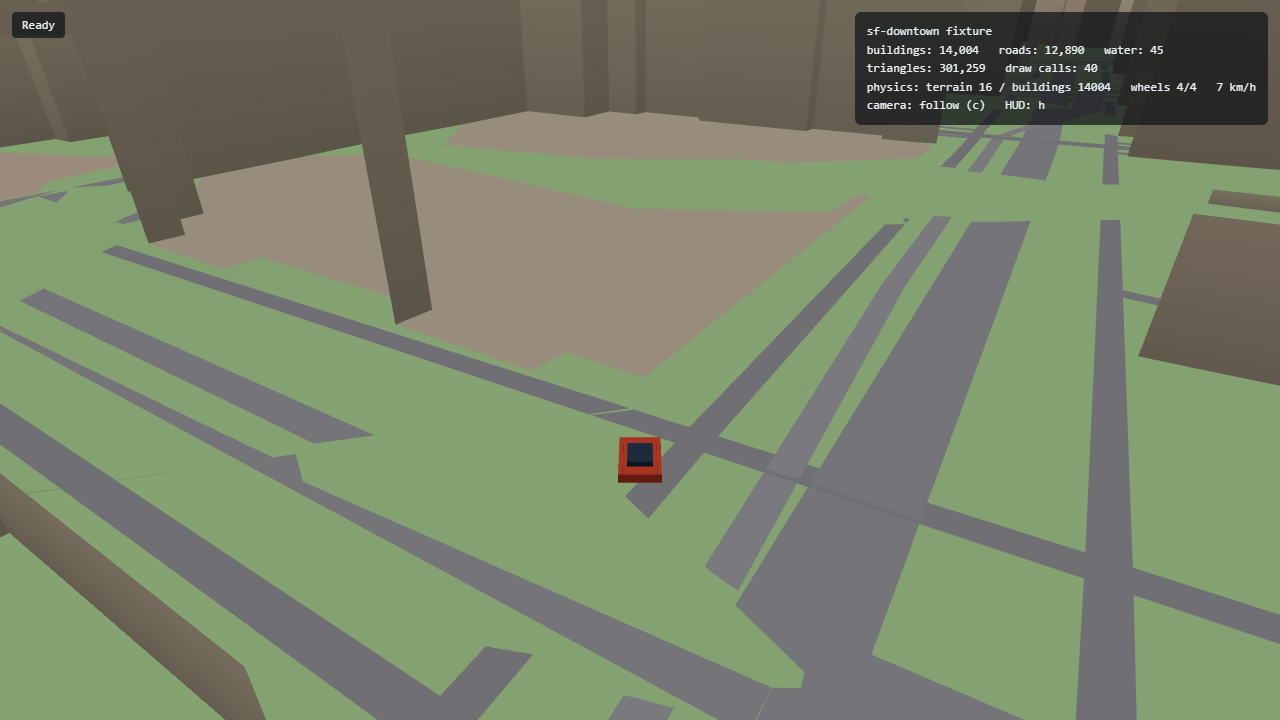
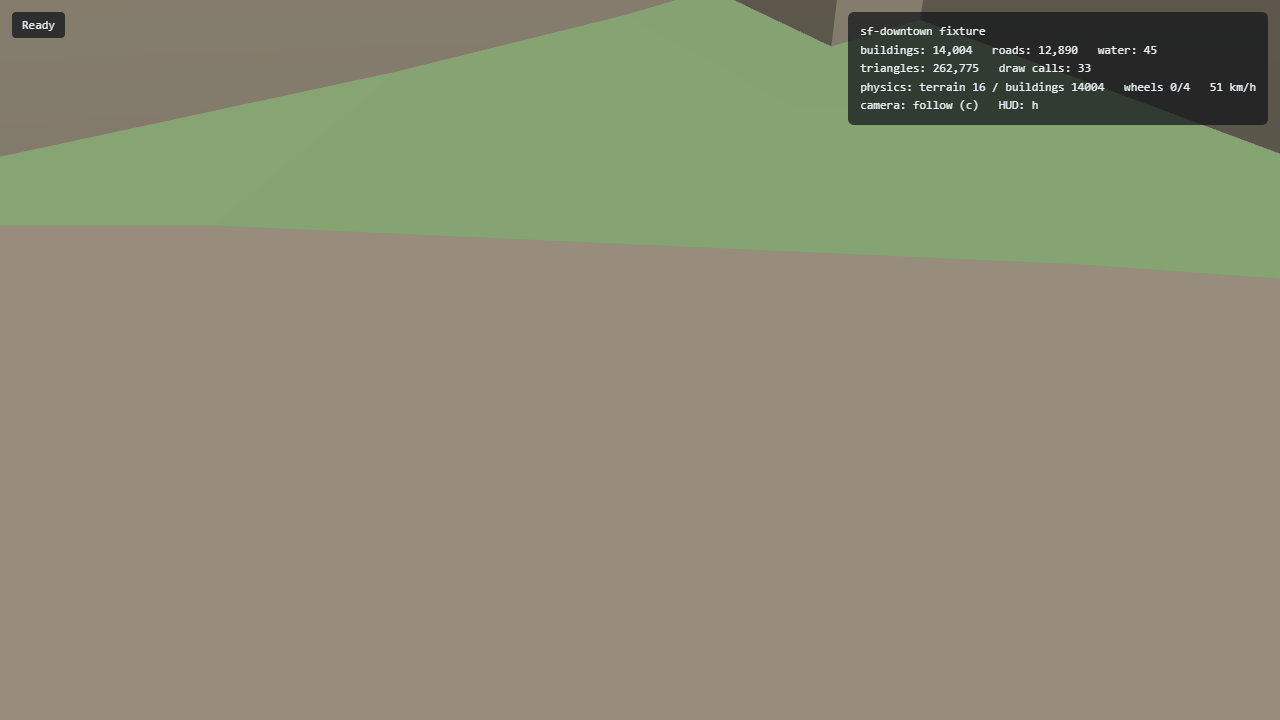
wp04: geo fusion pipeline - geo/local roundtrip, unified elevation policy, deterministic terrain seam stitching (1.64m->0), floating-origin rebase groundwork; wired into render+physics

diff --git a/src/geo/fusion.ts b/src/geo/fusion.ts
@@ -1,0 +1,161 @@
+import type { ChunkTerrain, WorldFixture } from "../world/generator";
+import { sampleTerrain } from "../world/generator";
+import { webMercatorX, webMercatorY } from "./projection";
+
+export { sampleTerrain };
+
+export interface GeoPoint {
+  lon: number;
+  lat: number;
+}
+
+export interface LocalPoint {
+  x: number;
+  z: number;
+}
+
+export interface WorldOrigin {
+  /** Fixture origin in EPSG:3857 meters (the manifest.origin). */
+  x: number;
+  y: number;
+}
+
+/** Fixture-local (x, z) → geographic lon/lat via the fixture's mercator origin. */
+export function localToGeo(origin: WorldOrigin, x: number, z: number): GeoPoint {
+  return {
+    lon: (origin.x + x) / 20037508.342789244 * 180,
+    lat: (2 * Math.atan(Math.exp((origin.y + z) / 6378137)) - Math.PI / 2) * 180 / Math.PI,
+  };
+}
+
+/** Geographic lon/lat → fixture-local (x, z). */
+export function geoToLocal(origin: WorldOrigin, lon: number, lat: number): LocalPoint {
+  return {
+    x: webMercatorX(lon) - origin.x,
+    z: webMercatorY(lat) - origin.y,
+  };
+}
+
+/**
+ * Stitch terrain seams between adjacent chunks so shared edges agree.
+ * For each chunk pair, the shared edge values are replaced by their average;
+ * the two outermost rows/columns are then blended toward the neighbor's edge
+ * with a linear falloff so the transition is smooth. Deterministic and
+ * idempotent (once edges agree, averaging changes nothing).
+ */
+export function stitchTerrainEdges(terrain: ChunkTerrain[]): ChunkTerrain[] {
+  const out = terrain.map((c) => ({
+    ...c,
+    heights: c.heights.map((row) => row.slice()),
+  }));
+  const byKey = new Map(out.map((c) => [chunkKey(c.z, c.x, c.y), c]));
+  const n = out[0]?.size ?? 0;
+  if (n === 0) return out;
+  const last = n - 1;
+
+  const blendRow = (c: ChunkTerrain, row: number, colA: number, colB: number, w: number, v: number): void => {
+    c.heights[row]![colA] = v;
+    c.heights[row]![colB] = c.heights[row]![colB] * (1 - w) + v * w;
+  };
+  const blendCol = (c: ChunkTerrain, col: number, rowA: number, rowB: number, w: number, v: number): void => {
+    c.heights[rowA]![col] = v;
+    c.heights[rowB]![col] = c.heights[rowB]![col] * (1 - w) + v * w;
+  };
+
+  // North-south pairs: c is the north chunk (y), s = c's south neighbor (y-1).
+  for (const c of out) {
+    const s = byKey.get(chunkKey(c.z, c.x, c.y - 1));
+    if (!s) continue;
+    for (let i = 0; i < n; i++) {
+      const a = c.heights[last]![i]!;
+      const b = s.heights[0]![i]!;
+      if (Math.abs(a - b) < 1e-6) continue;
+      const v = (a + b) / 2;
+      blendRow(c, last, i, i === 0 ? 0 : i, 1, v);
+      blendRow(s, 0, i, i === 0 ? 0 : i, 1, v);
+      const w1 = 0.33;
+      const w2 = 0.67;
+      if (last - 1 >= 0) c.heights[last - 1]![i] = c.heights[last - 1]![i]! * (1 - w1) + v * w1;
+      if (1 < n) s.heights[1]![i] = s.heights[1]![i]! * (1 - w1) + v * w1;
+      if (last - 2 >= 0) c.heights[last - 2]![i] = c.heights[last - 2]![i]! * (1 - w2) + v * w2;
+      if (2 < n) s.heights[2]![i] = s.heights[2]![i]! * (1 - w2) + v * w2;
+    }
+  }
+  // East-west pairs: e = c's east neighbor (x+1).
+  for (const c of out) {
+    const e = byKey.get(chunkKey(c.z, c.x + 1, c.y));
+    if (!e) continue;
+    for (let j = 0; j < n; j++) {
+      const a = c.heights[j]![last]!;
+      const b = e.heights[j]![0]!;
+      if (Math.abs(a - b) < 1e-6) continue;
+      const v = (a + b) / 2;
+      blendCol(c, last, j, j === 0 ? 0 : j, 1, v);
+      blendCol(e, 0, j, j === 0 ? 0 : j, 1, v);
+      const w1 = 0.33;
+      const w2 = 0.67;
+      if (last - 1 >= 0) c.heights[j]![last - 1] = c.heights[j]![last - 1]! * (1 - w1) + v * w1;
+      if (1 < n) e.heights[j]![1] = e.heights[j]![1]! * (1 - w1) + v * w1;
+      if (last - 2 >= 0) c.heights[j]![last - 2] = c.heights[j]![last - 2]! * (1 - w2) + v * w2;
+      if (2 < n) e.heights[j]![2] = e.heights[j]![2]! * (1 - w2) + v * w2;
+    }
+  }
+  return out;
+}
+
+/**
+ * Prepare a fixture for world building: terrain seams stitched so render and
+ * physics use identical, seam-free heights. Deterministic.
+ */
+export function prepareFixture(fixture: WorldFixture): WorldFixture {
+  return { ...fixture, terrain: stitchTerrainEdges(fixture.terrain) };
+}
+
+/**
+ * One elevation policy for the whole world: sample a terrain set at
+ * fixture-local (x, z). Render, physics, spawn and fusion all use this.
+ */
+export const elevationPolicy = {
+  sample: sampleTerrain,
+};
+
+/**
+ * Floating-origin groundwork: translate geometry between two world origins.
+ * newLocal = oldLocal + (oldOrigin - newOrigin). Geographic coordinates are
+ * the stable identity; local coordinates are origin-relative.
+ */
+export function rebasePoint(
+  oldOrigin: WorldOrigin,
+  newOrigin: WorldOrigin,
+  x: number,
+  z: number,
+): LocalPoint {
+  return { x: x + (oldOrigin.x - newOrigin.x), z: z + (oldOrigin.y - newOrigin.y) };
+}
+
+function chunkKey(z: number, x: number, y: number): string {
+  return `${z}-${x}-${y}`;
+}
+
+export interface FusionPipeline {
+  origin: WorldOrigin;
+  terrain: ChunkTerrain[];
+  toLocal(lon: number, lat: number): LocalPoint;
+  toGeo(x: number, z: number): GeoPoint;
+  elevation(x: number, z: number): number;
+  rebase(newOrigin: WorldOrigin, x: number, z: number): LocalPoint;
+}
+
+/** Full pipeline bound to a prepared fixture. */
+export function createFusion(fixture: WorldFixture): FusionPipeline {
+  const terrain = stitchTerrainEdges(fixture.terrain);
+  const origin: WorldOrigin = { x: fixture.manifest.origin.x, y: fixture.manifest.origin.y };
+  return {
+    origin,
+    terrain,
+    toLocal: (lon, lat) => geoToLocal(origin, lon, lat),
+    toGeo: (x, z) => localToGeo(origin, x, z),
+    elevation: (x, z) => sampleTerrain(terrain, x, z),
+    rebase: (newOrigin, x, z) => rebasePoint(origin, newOrigin, x, z),
+  };
+}

diff --git a/tests/unit/fusion.test.ts b/tests/unit/fusion.test.ts
@@ -1,0 +1,100 @@
+import { readFileSync } from "node:fs";
+import { fileURLToPath } from "node:url";
+import { describe, expect, it, beforeAll } from "vitest";
+import type { ChunkTerrain, WorldFixture } from "../../src/world/generator";
+import { createFusion, geoToLocal, localToGeo, rebasePoint, stitchTerrainEdges } from "../../src/geo/fusion";
+import { readFixture } from "./fixture-helper";
+
+let fixture: WorldFixture;
+let rawTerrain: ChunkTerrain[];
+
+beforeAll(() => {
+  fixture = readFixture("sf-downtown");
+  const dir = fileURLToPath(new URL("../../fixtures/sf-downtown", import.meta.url));
+  rawTerrain = (JSON.parse(readFileSync(`${dir}/terrain.json`, "utf8")) as { chunks: ChunkTerrain[] }).chunks;
+});
+
+function maxEdgeDelta(terrain: ChunkTerrain[]): { ns: number; ew: number } {
+  const byKey = new Map(terrain.map((c) => [`${c.z}-${c.x}-${c.y}`, c]));
+  let ns = 0;
+  let ew = 0;
+  for (const c of terrain) {
+    const south = byKey.get(`${c.z}-${c.x}-${c.y - 1}`);
+    if (south) {
+      for (let i = 0; i < c.size; i++) {
+        ns = Math.max(ns, Math.abs(c.heights[c.size - 1]![i]! - south.heights[0]![i]!));
+      }
+    }
+    const east = byKey.get(`${c.z}-${c.x + 1}-${c.y}`);
+    if (east) {
+      for (let j = 0; j < c.size; j++) {
+        ew = Math.max(ew, Math.abs(c.heights[j]![c.size - 1]! - east.heights[j]![0]!));
+      }
+    }
+  }
+  return { ns, ew };
+}
+
+describe("geo fusion pipeline", () => {
+  it("localToGeo / geoToLocal roundtrip via the fixture origin", () => {
+    const origin = fixture.manifest.origin;
+    const lon = -122.4053;
+    const lat = 37.7909;
+    const p = geoToLocal(origin, lon, lat);
+    const g = localToGeo(origin, p.x, p.z);
+    expect(g.lon).toBeCloseTo(lon, 6);
+    expect(g.lat).toBeCloseTo(lat, 6);
+  });
+
+  it("stitching: shared chunk edges agree after stitchTerrainEdges", () => {
+    const raw = maxEdgeDelta(rawTerrain);
+    expect(raw.ns).toBeGreaterThan(0);
+    expect(raw.ew).toBeGreaterThan(0);
+    const stitched = stitchTerrainEdges(rawTerrain);
+    const { ns, ew } = maxEdgeDelta(stitched);
+    expect(ns).toBeLessThan(0.01);
+    expect(ew).toBeLessThan(0.01);
+  });
+
+  it("stitching is idempotent", () => {
+    const once = stitchTerrainEdges(rawTerrain);
+    const twice = stitchTerrainEdges(once);
+    for (let k = 0; k < once.length; k++) {
+      expect(twice[k]!.heights).toEqual(once[k]!.heights);
+    }
+  });
+
+  it("stitching preserves interior values away from the seams", () => {
+    const stitched = stitchTerrainEdges(rawTerrain);
+    for (const c of stitched) {
+      for (let j = 3; j <= c.size - 4; j++) {
+        for (let i = 3; i <= c.size - 4; i++) {
+          const orig = rawTerrain.find((o) => o.x === c.x && o.y === c.y)!;
+          expect(c.heights[j]![i]!).toBe(orig.heights[j]![i]!);
+        }
+      }
+    }
+  });
+
+  it("createFusion exposes a coherent pipeline with elevation policy", () => {
+    const fusion = createFusion(fixture);
+    const p = fusion.toLocal(-122.4053, 37.7909);
+    expect(Number.isFinite(fusion.elevation(p.x, p.z))).toBe(true);
+    const g = fusion.toGeo(p.x, p.z);
+    expect(g.lon).toBeCloseTo(-122.4053, 6);
+  });
+
+  it("rebase: relative geometry is preserved under origin changes", () => {
+    const origin = fixture.manifest.origin;
+    const newOrigin = { x: origin.x + 5000, y: origin.y - 5000 };
+    const a = { x: 123.4, z: -567.8 };
+    const b = { x: 999.1, z: 12.3 };
+    const ra = rebasePoint(origin, newOrigin, a.x, a.z);
+    const rb = rebasePoint(origin, newOrigin, b.x, b.z);
+    expect(Math.hypot(ra.x - rb.x, ra.z - rb.z)).toBeCloseTo(Math.hypot(a.x - b.x, a.z - b.z), 9);
+    const geoA = localToGeo(origin, a.x, a.z);
+    const backA = localToGeo(newOrigin, ra.x, ra.z);
+    expect(backA.lon).toBeCloseTo(geoA.lon, 9);
+    expect(backA.lat).toBeCloseTo(geoA.lat, 9);
+  });
+});

diff --git a/tests/unit/fixture-helper.ts b/tests/unit/fixture-helper.ts
@@ -1,12 +1,13 @@
 import { readFileSync } from "node:fs";
 import { fileURLToPath } from "node:url";
 import type { WorldFixture } from "../../src/world/generator";
+import { prepareFixture } from "../../src/geo/fusion";
 
 export function readFixture(name: string): WorldFixture {
   const dir = fileURLToPath(new URL(`../../fixtures/${name}`, import.meta.url));
   const load = (f: string): unknown => JSON.parse(readFileSync(`${dir}/${f}`, "utf8")) as unknown;
   const chunks = <T>(f: string): T => (load(f) as { chunks: T }).chunks;
-  return {
+  const raw: WorldFixture = {
     manifest: load("manifest.json") as WorldFixture["manifest"],
     buildings: chunks("buildings.json"),
     roads: chunks("roads.json"),
@@ -14,4 +15,5 @@ export function readFixture(name: string): WorldFixture {
     landcover: chunks("landcover.json"),
     terrain: chunks("terrain.json"),
   };
+  return prepareFixture(raw);
 }

diff --git a/src/main.ts b/src/main.ts
@@ -2,6 +2,7 @@ import "./style.css";
 import * as THREE from "three";
 import { init as rapierInit } from "@dimforge/rapier3d-compat";
 import { buildWorld, type ChunkRecord, type ChunkTerrain, type WorldFixture, type WorldModel } from "./world/generator";
+import { prepareFixture } from "./geo/fusion";
 import { createOrbitCamera } from "./render/camera";
 import { createRenderer } from "./render/renderer";
 import { createPhysicsWorld, findSpawnPoint } from "./physics/world";
@@ -75,7 +76,7 @@ function attachWorld(scene: THREE.Scene, world: WorldModel): void {
 async function boot(): Promise<void> {
   try {
     await rapierInit();
-    const fixture = await loadFixture();
+    const fixture = prepareFixture(await loadFixture());
     setStatus("Generating world");
     const world = buildWorld(fixture);
     setStatus("Preparing physics");

diff --git a/docs/agent/NEXT_ACTION.md b/docs/agent/NEXT_ACTION.md
@@ -1,9 +1,9 @@
 # NEXT ACTION — never lose the thread
 
-CURRENT MILESTONE: WP-04 geo fusion
-CURRENT WORK PACKAGE: WP-04
+CURRENT MILESTONE: WP-05 live data pipeline
+CURRENT WORK PACKAGE: WP-05
 CURRENT BLOCKER: none
-NEXT SINGLE ACTION: Dispatch ONE implementer for WP-04: GeoFusionPipeline — formalize coordinate/origin module (projection + fixture-local + floating-origin rebase architecture), elevation policy module (sampleTerrain shared by render/physics/spawn), chunk-boundary seam verification test, and origin-rebase groundwork with tests.
-WHY IT IS NEXT: The world+physics slice works; WP-04 makes the geo elevation/origin policy explicit and tested before streaming (WP-06) depends on it.
-ACCEPTANCE CONDITION: fusion unit tests (elevation policy consistency, seam continuity across adjacent chunks, origin abstraction) green; harness gates pass.
-EVIDENCE TO PRODUCE: tests/unit/fusion.test.ts green; docs note.
+NEXT SINGLE ACTION: Dispatch ONE implementer for WP-05: live data pipeline — fetch Overture PMTiles (buildings/transportation/base) + terrarium terrain for an arbitrary bbox in the BROWSER (pmtiles range client + our MVT decoder in a worker), chunked per z15, using the same fixture-format contracts; a live "demo location" UI path that builds a WorldFixture in-browser and boots the existing generator/physics.
+WHY IT IS NEXT: P0 requires loading any real place (R-013); WP-02-04 are static; WP-05 turns them live.
+ACCEPTANCE CONDITION: live e2e renders a real non-fixture location from live sources (tagged live, network); fixture tests unchanged; deterministic chunk keys (release+chunk+version) introduced.
+EVIDENCE TO PRODUCE: live render screenshot, live e2e pass (BLOCKED_EXTERNAL-tolerant), chunk key unit test.

diff --git a/docs/agent/STATUS.md b/docs/agent/STATUS.md
@@ -10,7 +10,7 @@ States: NOT_STARTED / ACTIVE / PASS / FAIL / BLOCKED_EXTERNAL / DEFERRED_NONCRIT
 | WP-01 | Upstream reuse audit + architecture freeze | PASS | R-007 | audit doc + probes | reports/research + audits 2026-08-10 | WP-02 |
 | WP-02 | Static vertical slice — WP-02a geo foundation DONE, WP-02b fixtures DONE (SF downtown: 14,948 buildings, 12,890 roads, 16 terrain chunks), WP-02c generator+renderer+camera+smoke DONE (buildWorld determinism verified; 26 unit tests green; e2e smoke green; screenshot exists) | ACTIVE | R-004..R-006, R-010 | 26 unit tests + smoke e2e | fixtures/sf-downtown/, reports/visual/wp02-slice.png, harness 20260810-132940 | reviewer pass on WP-02c, then WP-03 |
 | WP-03 | Physics vertical slice — Rapier world (16 terrain heightfields + 14,004 building boxes), raycast vehicle (calibrated), keyboard controls, camera follow, safe spawn (building clearance), adaptive pixel ratio; drive e2e GREEN | PASS | R-011, R-016 (partial) | 37 unit tests + 2 e2e | reports/visual/wp03-drive.png, harness run 20260810-1913xx | WP-04 |
-| WP-04 | Geo fusion | NOT_STARTED | R-012 | fusion tests | pending | implement |
+| WP-04 | Geo fusion — GeoFusionPipeline (geo↔local, unified elevation policy, deterministic terrain edge stitching ≤1.64m→0, floating-origin rebase groundwork) wired into render+physics | PASS | R-012, R-008 (policy) | 43 unit tests + 2 e2e | tests/unit/fusion.test.ts | WP-05 |
 | WP-05 | Live data pipeline | NOT_STARTED | R-013 | live+fixture tests | pending | implement |
 | WP-06 | Chunk streamer | NOT_STARTED | R-014 | streaming tests | pending | implement |
 | WP-07 | Persistent cache | NOT_STARTED | R-015 | cache tests | pending | implement |
